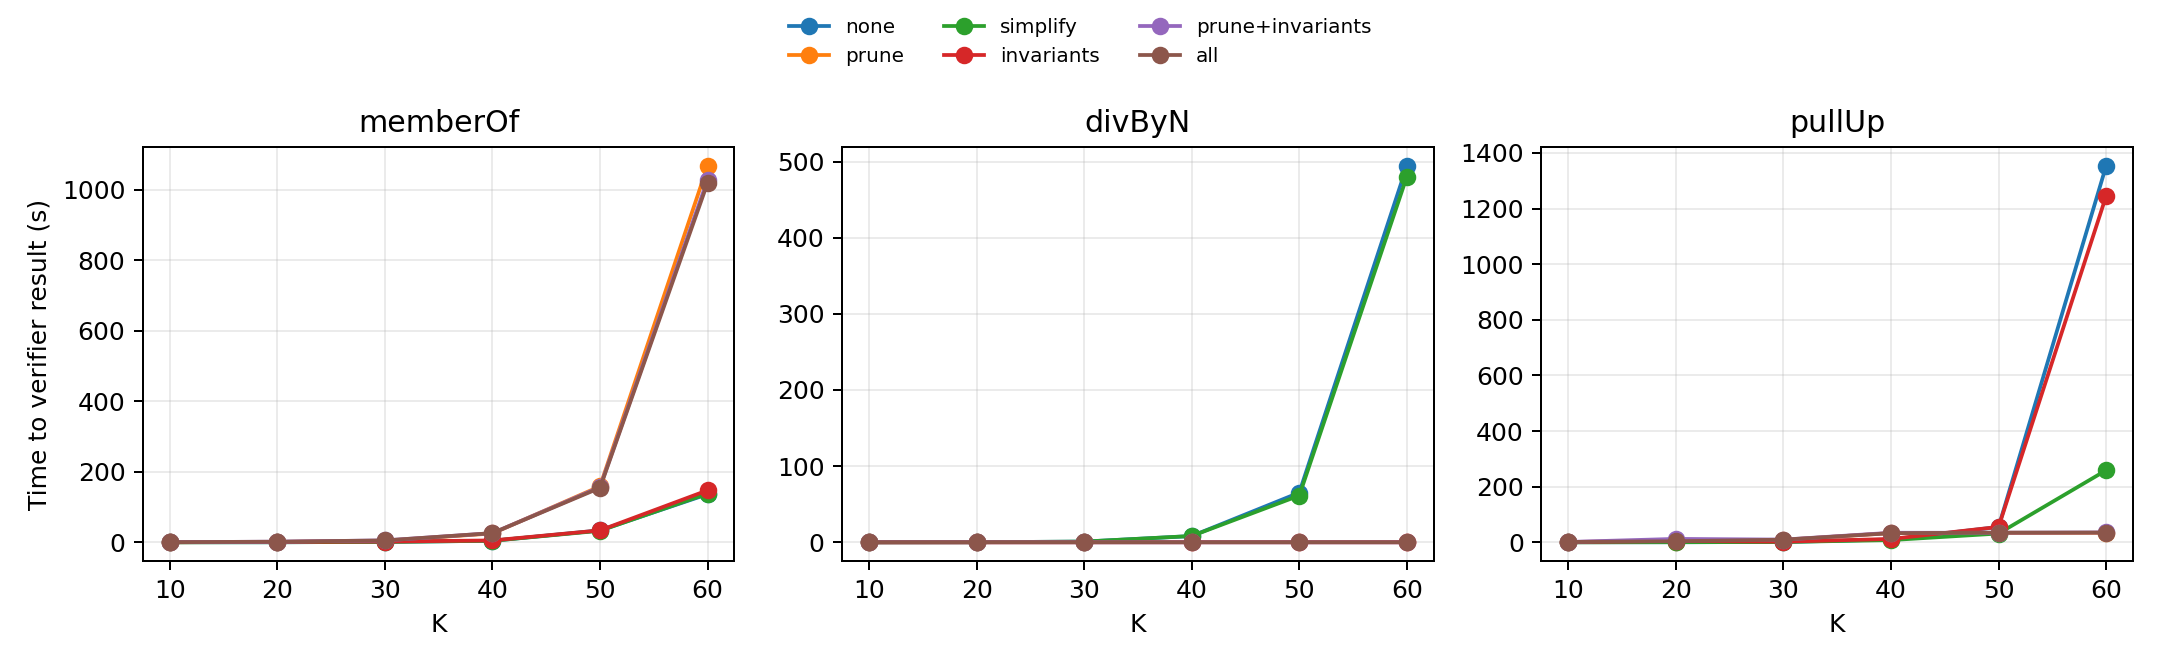
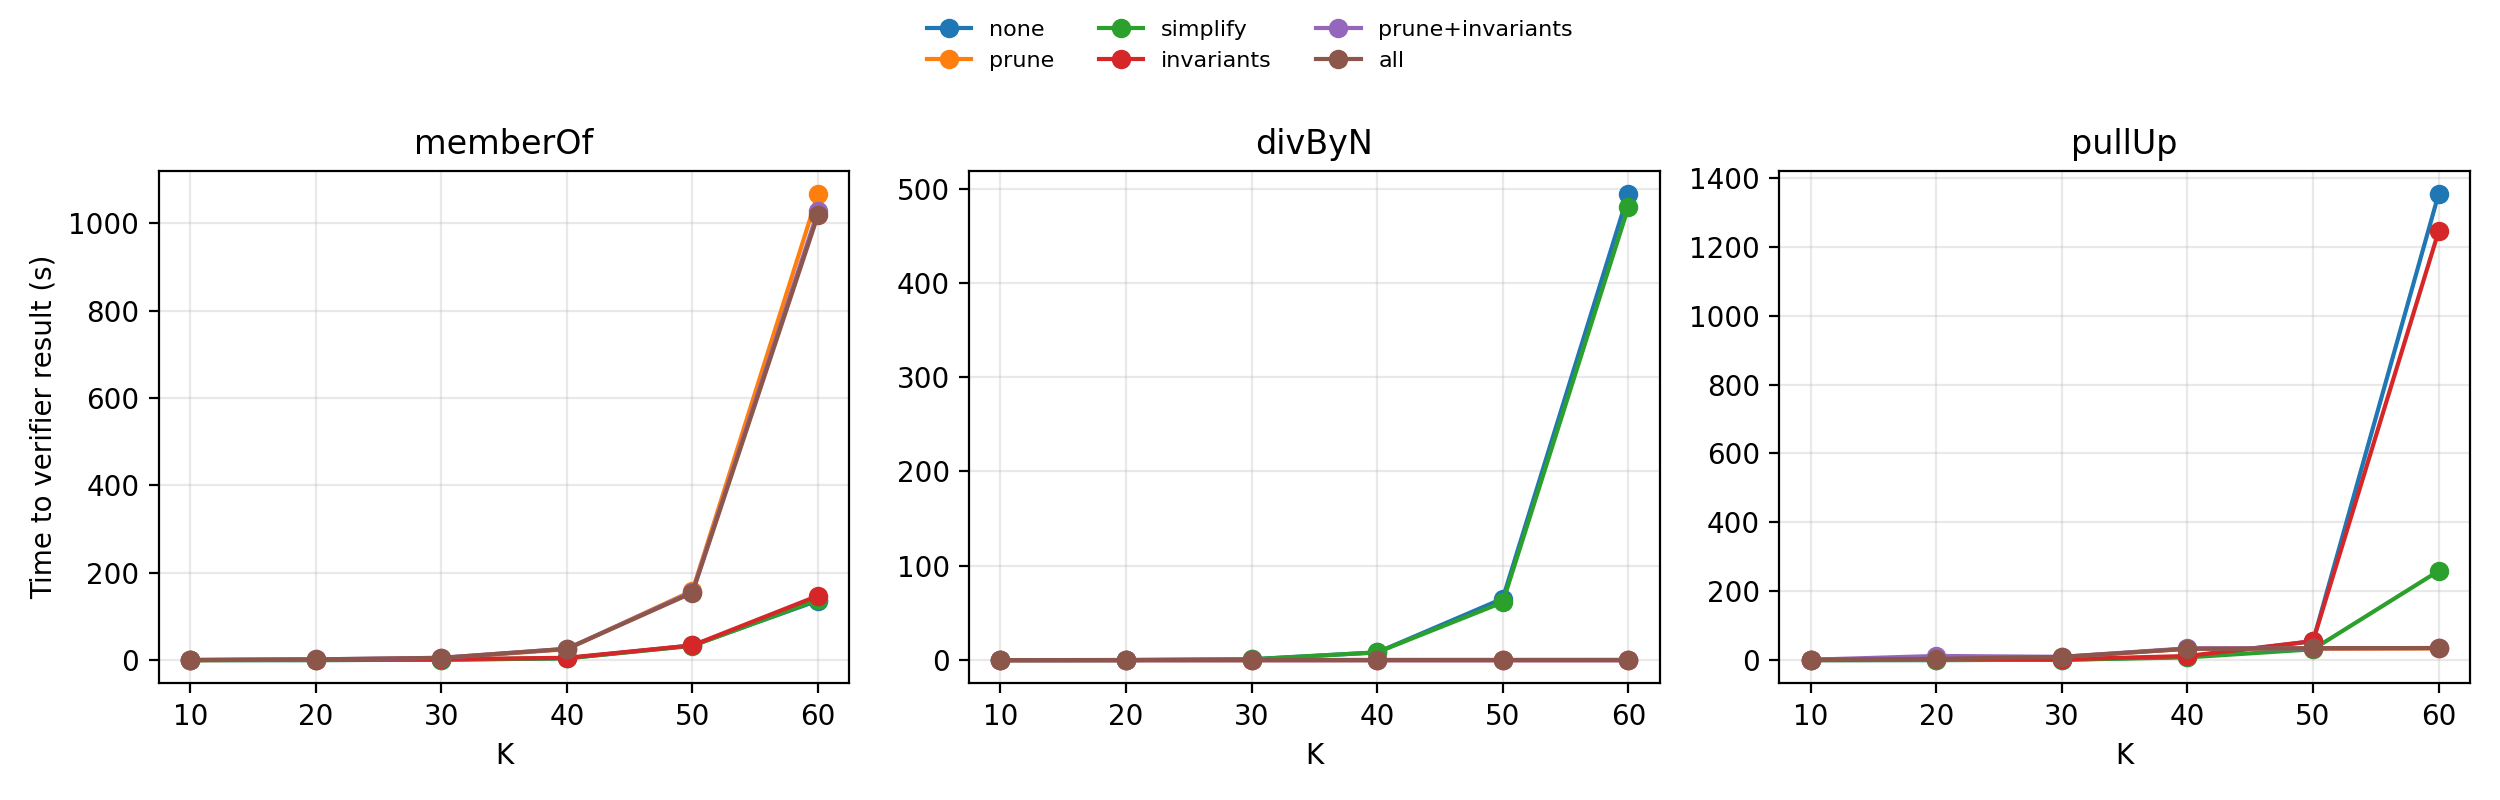
Fix appendix benchmark reporting
Rename runtime CSV fields, improve graph generation, avoid stale benchmark discovery, and report experiment outcomes only when experiments run. Regenerate appendix results, graph, and executable.

diff --git a/src/scripts/appendix_benchmark.py b/src/scripts/appendix_benchmark.py
@@ -1,15 +1,12 @@
 #!/usr/bin/env python3
-"""Run the Appendix A experiments and save compact CSV results and paper graphs."""
 import csv
 import os
+import sys
 import statistics
 import subprocess
-import sys
-import time
+import matplotlib.pyplot as plt
 from concurrent.futures import ThreadPoolExecutor, as_completed
 from pathlib import Path
-
-import matplotlib.pyplot as plt
 
 RUN_PERFORMANCE_EXPERIMENT = True
 RUN_COMPLETENESS_EXPERIMENT = True
@@ -184,14 +181,14 @@ def append_csv(path, row):
 
 def performanceGraph(rows):
     GRAPHS.mkdir(parents=True, exist_ok=True)
-    f, a = plt.subplots(1, len(ORIGINALS), figsize=(12, 3.7), sharey=False)
+    f, a = plt.subplots(1, len(ORIGINALS), figsize=(12.5, 4.0), sharey=False)
     for ax, benchmark in zip(a, ORIGINALS):
         subset = [r for r in rows if r["experiment"] == "performance" and r["benchmark"] == benchmark]
         for m in PERFORMANCE_MODES:
             p = []
             for k in PERFORMANCE_K:
                 values = [float(r["elapsed_time"]) for r in subset if r["heuristics"] == m and int(r["K"]) == k
-                    and r.get("elapsed_time", "") and r["verdict"] not in ("ERROR", "TIMEOUT", "UNKNOWN", "UNSUPPORTED")]
+                    and r.get("elapsed_time", "") and r["verdict"] not in ("ERROR", "TIMEOUT", "UNKNOWN", "UNSUPPORTED") and float(r["elapsed_time"]) > 0]
                 if values:
                     p.append((k, statistics.median(values)))
             if p:
@@ -199,7 +196,8 @@ def performanceGraph(rows):
         ax.set_title(benchmark)
         ax.set_xlabel("K")
         ax.set_xticks(PERFORMANCE_K)
-        ax.grid(True, alpha=0.25)
+        # ax.set_yscale("log")
+        ax.grid(True, which="major", alpha=0.28)
     a[0].set_ylabel("Time to verifier result (s)")
     xs = {}
     for ax in a:
@@ -209,7 +207,7 @@ def performanceGraph(rows):
     if xs:
         f.legend(xs.values(), xs.keys(), loc="upper center", ncol=3, frameon=False, fontsize=8)
     f.tight_layout(rect=(0, 0, 1, 0.88))
-    f.savefig(GRAPHS / "performance_runtime_vs_K.png", dpi=180)
+    f.savefig(GRAPHS / "performance_runtime_vs_K.png", dpi=200)
     plt.close(f)
 
     for oldName in ("performance_success_vs_K.png", "performance_full_completion_time_vs_K.png"):
@@ -341,9 +339,8 @@ def main():
     missing = [str(p) for p in ORIGINALS.values() if not p.is_file()]
     if missing:
         raise FileNotFoundError("Missing required benchmarks:\n" + "\n".join(missing))
-    invalids, mutants = invalids(), mutants()
     print(f"Project: {ROOT}")
-    print(f"Mutant files: {sum(map(len, mutants.values()))}; invalid controls found: {len(invalids)}")
+    print(f"Mutant files: {sum(map(len, mutants().values()))}; invalid controls found: {len(invalids())}")
     print("CSV records runtime, path/WLP statistics, acceptance at each K, and full-completion status/time.")
     print("Install graph dependency if needed: python -m pip install matplotlib")
     exe = build()
@@ -355,25 +352,26 @@ def main():
         print("Skipping performance experiment (RUN_PERFORMANCE_EXPERIMENT=False).")
 
     if RUN_COMPLETENESS_EXPERIMENT:
-        all_rows += runCompleteness(exe, invalids, mutants)
+        all_rows += runCompleteness(exe, invalids(), mutants())
     else:
         print("Skipping completeness experiment (RUN_COMPLETENESS_EXPERIMENT=False).")
 
+    actual_errors = [r for r in all_rows if r["run_status"] == "error"]
+    unexpected = [r for r in all_rows if r["run_status"] == "unexpected_result"]
     if not (RUN_PERFORMANCE_EXPERIMENT or RUN_COMPLETENESS_EXPERIMENT):
         print("reloading graphs from CSV files to ensure they are up to date.")
         reloadGraphs(PERFORMANCE_CSV, COMPLETENESS_CSV)
+    else:
+        timeouts = [r for r in all_rows if r["run_status"] == "timeout"]
+        inconclusive = [r for r in all_rows if r["run_status"] == "inconclusive"]
+        unsupported = [r for r in all_rows if r["run_status"] == "unsupported"]
+        controls = [r for r in all_rows if r["case_kind"] == "invalid_control"]
+        control_failures = sum(r["run_status"] != "completed" for r in controls)
+        print(f"\nDone. Results: {OUT}")
+        print(f"Invalid controls not correctly rejected: {control_failures}/{len(controls)}")
+        print(f"Timeouts: {len(timeouts)}; inconclusive/unknown: {len(inconclusive)}; " f"unsupported: {len(unsupported)}; "
+            f"unexpected results: {len(unexpected)}; " f"actual errors: {len(actual_errors)}")
 
-    actual_errors = [r for r in all_rows if r["run_status"] == "error"]
-    timeouts = [r for r in all_rows if r["run_status"] == "timeout"]
-    inconclusive = [r for r in all_rows if r["run_status"] == "inconclusive"]
-    unsupported = [r for r in all_rows if r["run_status"] == "unsupported"]
-    unexpected = [r for r in all_rows if r["run_status"] == "unexpected_result"]
-    controls = [r for r in all_rows if r["case_kind"] == "invalid_control"]
-    control_failures = sum(r["run_status"] != "completed" for r in controls)
-    print(f"\nDone. Results: {OUT}")
-    print(f"Invalid controls not correctly rejected: {control_failures}/{len(controls)}")
-    print(f"Timeouts: {len(timeouts)}; inconclusive/unknown: {len(inconclusive)}; " f"unsupported: {len(unsupported)}; "
-          f"unexpected results: {len(unexpected)}; " f"actual errors: {len(actual_errors)}")
     return 1 if actual_errors or unexpected else 0
 
 
